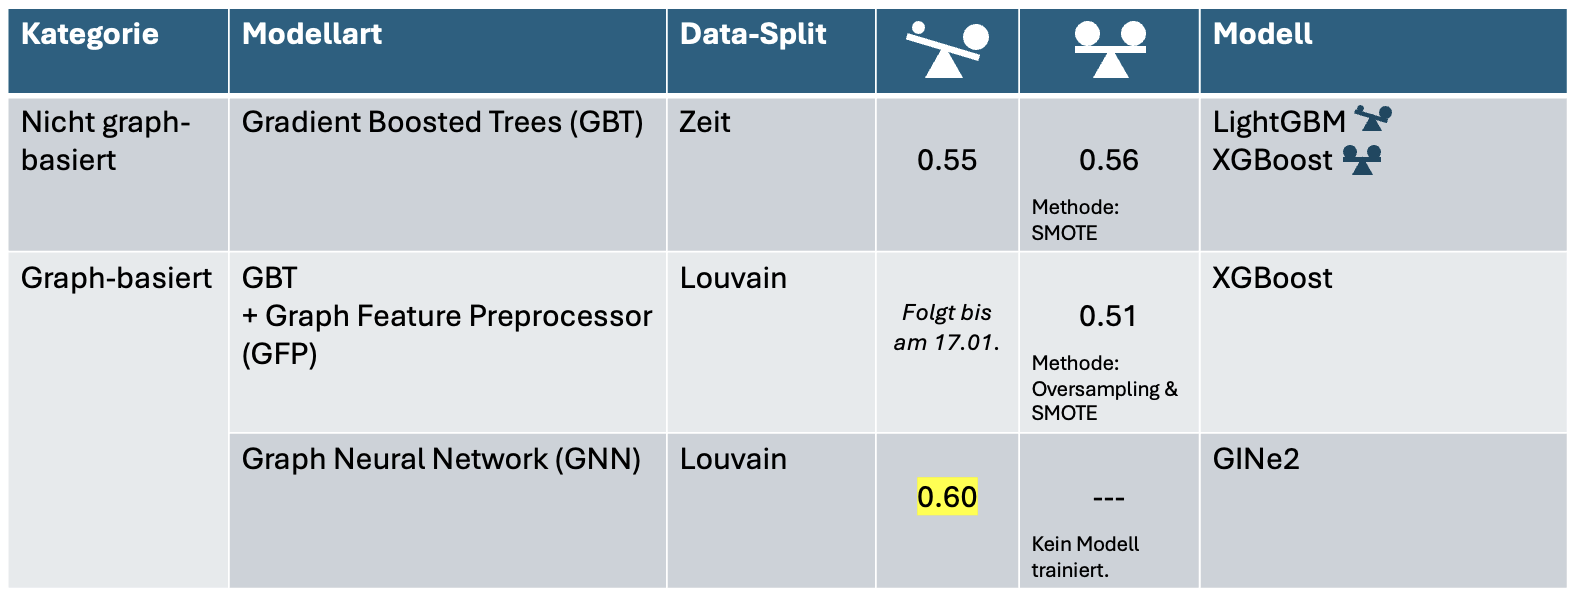
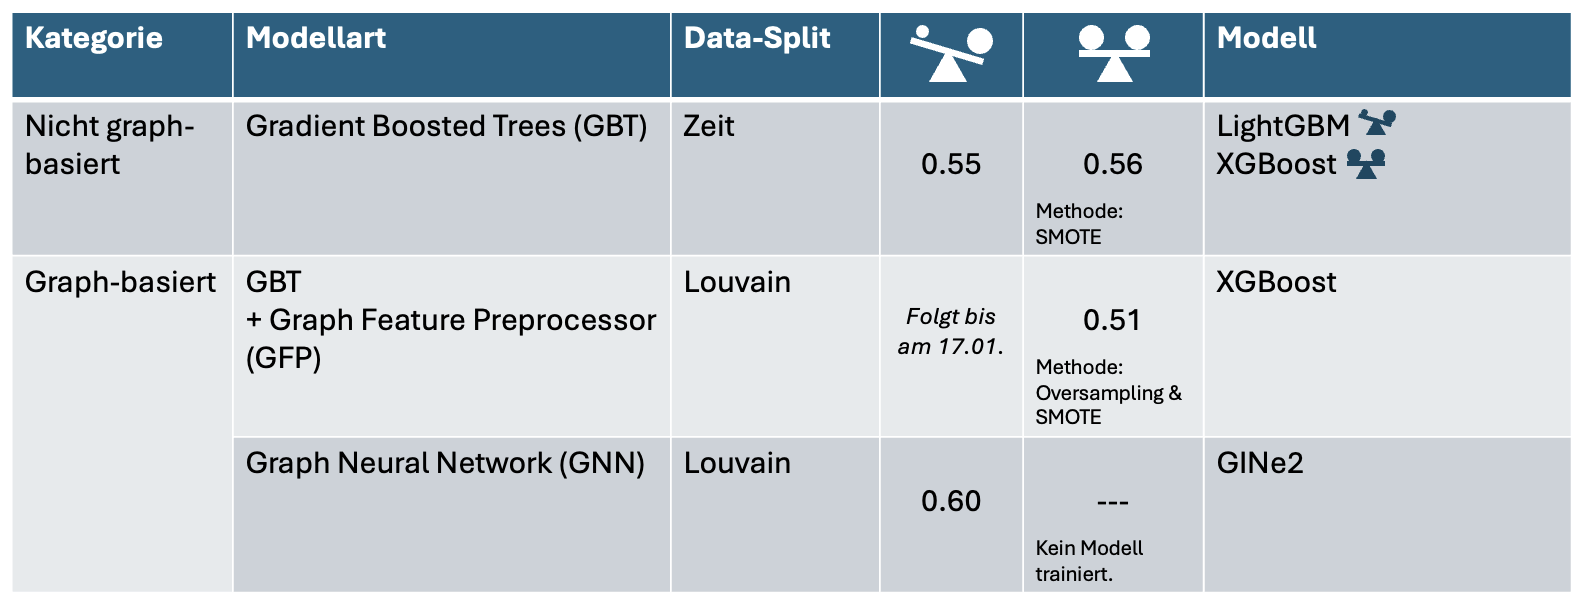
Final GNN results

diff --git a/index.md b/index.md
@@ -7,7 +7,7 @@ layout: default
 
 Dieser Blogbeitrag zeigt, wie man Geldwäscheversuche mit Machine Learning erkennt. Wir präsentieren im Detail verschiedene Ansätze und teilen unsere Erfahrungen. Der Schwerpunkt liegt darauf, die Entwicklung von klassischen Machine-Learning-Algorithmen bis hin zu innovativen Graph Neural Networks zu erklären. Mit der Länge des Artikels wächst die Komplexität. Der Beitrag richtet sich an Leser, die ein Faible für Daten oder Statistik haben und mit dem Begriff "Modell" vertraut sind.
 
-Laut den Vereinten Nationen werden jährlich 2 bis 5 % des globalen BIP – etwa 800 Milliarden bis 2 Billionen US-Dollar – durch Geldwäsche verschleiert. Ein wiederkehrendes Problem in der Geldwäsche-Forschung ist die Verfügbarkeit realer Datensätze. Das AMLworld-Framework bietet hier eine Lösung, indem es synthetische Finanztransaktionen generiert, die reale Szenarien mit hoher Präzision nachbilden, einschliesslich bekannter Geldwäschemuster. Diese vollständig gelabelten Daten ermöglichen eine objektive Bewertung von Algorithmen (Altman et al., 2024). Grundlage des AMLworld-Frameworks ist der synthetische Datensatz [IBM Transactions for Anti Money Laundering (AML)](https://www.kaggle.com/datasets/ealtman2019/ibm-transactions-for-anti-money-laundering-aml), mit dem auch wir in unserem Projekt arbeiteten und den wir im nächsten Kapitel vorstellen. 
+Laut den Vereinten Nationen werden jährlich 2 bis 5% des globalen BIP – etwa 800 Milliarden bis 2 Billionen US-Dollar – durch Geldwäsche verschleiert. Ein wiederkehrendes Problem in der Geldwäsche-Forschung ist die Verfügbarkeit realer Datensätze. Das AMLworld-Framework bietet hier eine Lösung, indem es synthetische Finanztransaktionen generiert, die reale Szenarien mit hoher Präzision nachbilden, einschliesslich bekannter Geldwäschemuster. Diese vollständig gelabelten Daten ermöglichen eine objektive Bewertung von Algorithmen (Altman et al., 2024). Grundlage des AMLworld-Frameworks ist der synthetische Datensatz [IBM Transactions for Anti Money Laundering (AML)](https://www.kaggle.com/datasets/ealtman2019/ibm-transactions-for-anti-money-laundering-aml), mit dem auch wir in unserem Projekt arbeiteten und den wir im nächsten Kapitel vorstellen. 
 
 
 # Die Daten
@@ -15,13 +15,13 @@ Der Datensatz umfasst 5'073'168 Transaktionen und 11 Variablen. Er beschreibt Tr
 Die Transaktionen erstrecken sich über 17 Tage ab dem 1. September 2022. Die meisten Daten stammen aus den ersten 10 Tagen, während die restlichen Tage weniger Aktivität zeigen. Auffällig ist das starke Ungleichgewicht: 99,9% der Transaktionen sind legal, nur 0,1% (5177) gelten als Geldwäsche. 
 <img src="assets/eda_tage.png" alt="eda_tage" class="hover-zoom" style="float: left; margin-right: 20px; width: 200px;">
 
-Der Datensatz umfasst 30'470 Banken und 515'080 Konten. Eine kleine Anzahl von Banken und Konten wickelt den Grossteil der Transaktionen ab: Die 10 aktivsten Banken verantworten 18,1% aller Transaktionen. Bei den Konten gibt es zentrale Akteure, von denen einige über 100.000 Transaktionen ausführen, während viele andere nur ein- oder zweimal aktiv sind. 
+Der Datensatz umfasst 30'470 Banken und 515'080 Konten. Eine kleine Anzahl von Banken und Konten wickelt den Grossteil der Transaktionen ab: Die 10 aktivsten Banken verantworten 18,1% aller Transaktionen. Bei den Konten gibt es zentrale Akteure, von denen einige über 100'000 Transaktionen ausführen, während viele andere nur ein- oder zweimal aktiv sind. 
 <img src="assets/eda_top30banken.png" alt="eda_top30banken" class="hover-zoom" style="float: right; margin-left: 20px; width: 200px;">
 
 Die Transaktionsbeträge, sowohl ein- als auch ausgehend, variieren stark. Meistens handelt es sich um kleine Beträge, doch einige extrem hohe Summen (bis zu 1 Billion USD) verzerren den Durchschnitt. Zur besseren Analyse wurden die Beträge in US-Dollar umgerechnet. 
 <img src="assets/eda_beträge.png" alt="eda_beträge" class="hover-zoom" style="float: right; margin-left: 20px; width: 200px;">
 
-US-Dollar und Euro dominieren die Transaktionen, während Währungen wie Bitcoin oder Saudi Riyal selten vorkommen. Interessant ist, dass 98,6 % der Transaktionen in derselben Währung erfolgen, nur 1,4 % beinhalten Währungsumrechnungen. 
+US-Dollar und Euro dominieren die Transaktionen, während Währungen wie Bitcoin oder Saudi Riyal selten vorkommen. Interessant ist, dass 98.6% der Transaktionen in derselben Währung erfolgen, nur 1.4 % beinhalten Währungsumrechnungen. 
 Der Datensatz unterscheidet sieben Zahlungsmethoden, darunter Schecks, Kreditkarten, ACH (Automated Clearing House), Bargeld und Bitcoin. Schecks dominieren, während Bitcoin, trotz seiner zunehmenden Nutzung in der Geldwäsche, selten vorkommt.  
 <img src="assets/eda_zahlungsformat.png" alt="eda_zahlungsformat" class="hover-zoom" style="float: left; margin-right: 20px; width: 200px;">
 
@@ -69,7 +69,7 @@ Diese Struktur verschleiert die Geldspur durch Streuung und spätere Zusammenfü
 
 # Herausforderung und Evaluierung von Modellen 
 Zunächst müssen wir verstehen, welche Herausforderungen Machine-Learning-Modelle bewältigen und wie wir ihre Leistung messen. In der Welt des maschinellen Lernens begegnen wir oft Datensätzen mit unausgewogener Klassenverteilung. Das bedeutet, eine Klasse – etwa betrügerische Transaktionen – tritt deutlich seltener auf als die andere, wie legitime Transaktionen. Diese seltene Klasse heisst Minority-Class (Minderheitsklasse).
-Die Herausforderung bei der Arbeit mit solchen Daten besteht darin, dass herkömmliche Metriken wie die Genauigkeit (Accuracy) oft in die Irre führen. Ein Modell könnte etwa 99 % Genauigkeit erzielen, indem es stets die Mehrheitsklasse (legitime Transaktionen) vorhersagt, dabei jedoch keine betrügerischen Transaktionen erkennt. Hier greift der Minority-Class F1-Score ein. Der F1-Score balanciert Präzision und Recall aus. Diese beiden Masse sind entscheidend, um die Leistung eines Modells bei der Erkennung der Minderheitsklasse zu bewerten.
+Die Herausforderung bei der Arbeit mit solchen Daten besteht darin, dass herkömmliche Metriken wie die Genauigkeit (Accuracy) oft in die Irre führen. Ein Modell könnte etwa 99% Genauigkeit erzielen, indem es stets die Mehrheitsklasse (legitime Transaktionen) vorhersagt, dabei jedoch keine betrügerischen Transaktionen erkennt. Hier greift der Minority-Class F1-Score ein. Der F1-Score balanciert Präzision und Recall aus. Diese beiden Masse sind entscheidend, um die Leistung eines Modells bei der Erkennung der Minderheitsklasse zu bewerten.
 
 **Präzision** gibt an, wie viele der als betrügerisch eingestuften Transaktionen tatsächlich betrügerisch sind. 
 
@@ -95,7 +95,7 @@ Ein hoher F1-Score für die Minderheitsklasse zeigt, dass das Modell sowohl prä
 
 <img src="assets/confusion_matrix1.png" alt="confusion_matrix1" class="hover-zoom" style="float: right; margin-left: 20px; width: 200px;">
 
-> Ein Beispiel: Stellen wir uns einen Datensatz mit 50 Transaktionen vor, von denen 2 % betrügerisch sind. Eine
+> Ein Beispiel: Stellen wir uns einen Datensatz mit 50 Transaktionen vor, von denen 2% betrügerisch sind. Eine
 > Transaktion ist betrügerisch (True Positive, wenn korrekt erkannt). Das Modell markiert jedoch fälschlicherweise zwei 
 > weitere Transaktionen als betrügerisch (False Positives) und übersieht die betrügerische Transaktion (False Negative).
 
@@ -142,7 +142,7 @@ Das folgende Kapitel beschreibt Methoden, die unsere Arbeit inspirierten.
 # Vorstellung Modellansätze aus Papers 
 Liu et al. (2020) konzentrierten sich auf die Verbesserung von Graph Neural Networks (GNNs), die vielversprechend für die Analyse relationaler Daten sind. Sie entwickelten das Framework **GraphConsis**, um Inkonsistenzen in Graphdaten zu beheben. Solche Inkonsistenzen entstehen, wenn Betrüger ihre Verbindungen tarnen, indem sie scheinbar normale Netzwerke aufbauen. GraphConsis filtert diese Störungen und identifiziert konsistente Nachbarschaftsstrukturen, was die Erkennungsleistung in realen Datensätzen signifikant verbessert.  
  
-Ein weiterer Ansatz ist der **Graph Feature Preprocessor (GFP)**, der speziell für die Echtzeit-Erkennung von Geldwäschemustern wie Simple Cycles oder Scatter-Gather entwickelt wurde. Dieses Tool extrahiert Merkmale aus Finanztransaktionsgrafen und erweitert traditionelle Machine-Learning-Modelle wie Gradient Boosted Trees. Die Kombination dieser Modelle mit Graph-Features steigerte die F1-Score für die Erkennung von Minderheitsklassen um bis zu 36 %, was die Bedeutung von Graph-basierten Features für die Betrugserkennung unterstreicht (Blanuša et al., 2024).  
+Ein weiterer Ansatz ist der **Graph Feature Preprocessor (GFP)**, der speziell für die Echtzeit-Erkennung von Geldwäschemustern wie Simple Cycles oder Scatter-Gather entwickelt wurde. Dieses Tool extrahiert Merkmale aus Finanztransaktionsgrafen und erweitert traditionelle Machine-Learning-Modelle wie Gradient Boosted Trees. Die Kombination dieser Modelle mit Graph-Features steigerte die F1-Score für die Erkennung von Minderheitsklassen um bis zu 36%, was die Bedeutung von Graph-basierten Features für die Betrugserkennung unterstreicht (Blanuša et al., 2024).  
 
 Egressy et al. leisteten einen innovativen Beitrag, indem sie gerichtete Multigraphen in den Fokus rückten. Sie passten GNNs für diese komplexen Strukturen an und erkannten durch Techniken wie **Reverse Message Passing** und **Port-Nummerierung** effizient Muster wie Zyklen und Scatter-Gather. Dieser Ansatz verbesserte die Erkennungsrate von Geldwäsche-Transaktionen um bis zu 30%. Parallel dazu setzte die Forschung zu Ensemble-Modellen neue Massstäbe.
 
@@ -161,7 +161,7 @@ Nicht graph-basierte Modelle analysieren Transaktionen isoliert. Sie ignorieren 
 Für den nicht graph-basierten Ansatz nutzen wir Gradient Boosted Trees (GBT). Diese Methode kombiniert viele einfache Entscheidungsbäume, um Vorhersagen zu verbessern. Entscheidungsbäume teilen Daten durch Ja/Nein-Fragen in Kategorien. 
 
 > Ein Beispiel: Wir wollen prüfen, ob eine Transaktion betrügerisch ist. Die Daten: 
-> - Betrag: 15.000 USD 
+> - Betrag: 15'000 USD 
 > - Währung: Bitcoin 
 > - Zahlungsformat: Kreditkarte 
 > - Sender: Konto mit auffälligem Transaktionsmuster 
@@ -190,10 +190,10 @@ Wir implementieren zwei Varianten von Gradient Boost Modellen:
 
 #### XGBoost
 
-XGBoost erweitert das Gradient Boosting durch mehrere Optimierungen. Diese Open-Source-Bibliothek besticht durch hohe Geschwindigkeit und Flexibilität. Der Algorithmus kombiniert Entscheidungsbäume, wobei jeder Baum die Fehler des vorherigen korrigiert. XGBoost zeichnet sich besonders dadurch aus, dass es gezielt unausgewogene Datensätze wie unseren Geldwäsche-Datensatz bearbeitet. Es nutzt gewichtetes Training, um die Erkennung seltener Klassen, etwa betrügerischer Transaktionen, zu verbessern. Bei einem Anteil von 0,1 % Geldwäsche-Transaktionen könnte ein Modell ohne Anpassungen alle Transaktionen als "legitim" einstufen und dennoch hohe Genauigkeit erreichen. Um dies zu verhindern, ermöglicht XGBoost, der Verlustfunktion einen Gewichtungsfaktor hinzuzufügen. Dieser Faktor verleiht den seltenen Klassen mehr Gewicht, sodass das Modell sie präziser klassifiziert. 
+XGBoost erweitert das Gradient Boosting durch mehrere Optimierungen. Diese Open-Source-Bibliothek besticht durch hohe Geschwindigkeit und Flexibilität. Der Algorithmus kombiniert Entscheidungsbäume, wobei jeder Baum die Fehler des vorherigen korrigiert. XGBoost zeichnet sich besonders dadurch aus, dass es gezielt unausgewogene Datensätze wie unseren Geldwäsche-Datensatz bearbeitet. Es nutzt gewichtetes Training, um die Erkennung seltener Klassen, etwa betrügerischer Transaktionen, zu verbessern. Bei einem Anteil von 0.1% Geldwäsche-Transaktionen könnte ein Modell ohne Anpassungen alle Transaktionen als "legitim" einstufen und dennoch hohe Genauigkeit erreichen. Um dies zu verhindern, ermöglicht XGBoost, der Verlustfunktion einen Gewichtungsfaktor hinzuzufügen. Dieser Faktor verleiht den seltenen Klassen mehr Gewicht, sodass das Modell sie präziser klassifiziert. 
 
-> Wieder unser Beispiel: Betrachten wir die 50 Transaktionen, von denen 2 %, also eine, betrügerisch ist. Ohne 
-> Klassengewichtung könnte das Modell alle Transaktionen als "legitim" einstufen und dennoch 98 % Genauigkeit erreichen. Das
+> Wieder unser Beispiel: Betrachten wir die 50 Transaktionen, von denen 2%, also eine, betrügerisch ist. Ohne 
+> Klassengewichtung könnte das Modell alle Transaktionen als "legitim" einstufen und dennoch 98% Genauigkeit erreichen. Das
 > wäre nutzlos, da keine betrügerische Transaktion erkannt würde. Um dies zu verhindern, geben wir der Klasse "betrügerisch"
 > eine höhere Gewichtung, etwa den Faktor 49, basierend auf dem Verhältnis von legitimen zu betrügerischen Transaktionen. So
 > wird der Fehler, eine betrügerische Transaktion zu übersehen, 49-mal stärker bestraft als der Fehler, eine legitime 
@@ -202,9 +202,9 @@ XGBoost erweitert das Gradient Boosting durch mehrere Optimierungen. Diese Open-
 <img src="assets/logloss.png" alt="logloss" class="hover-zoom" style="float: right; margin-left: 20px; width: 200px;">
 XGBoost nutzt zudem spezielle Optimierungen für Klassifikationsprobleme, wie Log-Loss. Diese Funktion misst, wie gut die vorhergesagte Wahrscheinlichkeit mit der tatsächlichen Klasse übereinstimmt. Bei einer betrügerischen Transaktion soll das Modell eine Wahrscheinlichkeit nahe 1 liefern, bei legitimen nahe 0. Weicht die Vorhersage stark von der tatsächlichen Klasse ab, bestraft die Funktion das Modell stärker. So trifft das Modell nicht nur Entscheidungen, sondern liefert auch zuverlässige Wahrscheinlichkeiten. 
 
-- Das Modell schätzte die erste Transaktion (betrügerisch) mit einer hohen Wahrscheinlichkeit von 0,80 ein. Diese liegt nahe an der tatsächlichen Klasse, daher bleibt der Log-Loss-Beitrag gering (0,223).  
-- Bei der zweiten Transaktion (legitim) sagte das Modell korrekt eine niedrige Wahrscheinlichkeit von 0,20 voraus, was ebenfalls zu einem kleinen Log-Loss-Beitrag führt.  
-- Bei der dritten Transaktion (legitim) prognostizierte das Modell jedoch fälschlicherweise eine hohe Wahrscheinlichkeit von 0,90 für "betrügerisch". Dieser Fehler wird stark bestraft (2,302).  
+- Das Modell schätzte die erste Transaktion (betrügerisch) mit einer hohen Wahrscheinlichkeit von 0.80 ein. Diese liegt nahe an der tatsächlichen Klasse, daher bleibt der Log-Loss-Beitrag gering (0.223).  
+- Bei der zweiten Transaktion (legitim) sagte das Modell korrekt eine niedrige Wahrscheinlichkeit von 0.20 voraus, was ebenfalls zu einem kleinen Log-Loss-Beitrag führt.  
+- Bei der dritten Transaktion (legitim) prognostizierte das Modell jedoch fälschlicherweise eine hohe Wahrscheinlichkeit von 0.90 für "betrügerisch". Dieser Fehler wird stark bestraft (2302).  
 Der Gesamt-Log-Loss ergibt sich aus dem Durchschnitt der einzelnen Beiträge. 
 
 #### LightGBM
@@ -225,7 +225,7 @@ Beim **Undersampling** reduzieren wir die Grösse der Mehrheitsklasse, indem wir
 
 Beim **Oversampling** wird die Minderheitsklasse künstlich vergrössert, indem bestehende Datenpunkte dupliziert werden. Dadurch bleibt die Grösse der Mehrheitsklasse erhalten, während die Minderheitsklasse vergrössert wird. In unserem Beispiel würde die eine Transaktion dupliziert, bis es 49 betrügerische Transaktionen gäbe. Da dieselben Datenpunkte dadurch mehrmals verwendet werden, besteht die Gefahrt von Overfitting. 
 
-**SMOTE** ist eine fortschrittliche Oversampling-Methode, die synthetische Datenpunkte für die Minderheitsklasse erzeugt, statt bestehende zu kopieren. Sie berechnet Zwischenwerte zwischen vorhandenen Datenpunkten der Minderheitsklasse, um neue zu schaffen. Bei zwei betrügerischen Transaktionen von 10.000 USD und 20.000 USD erzeugt SMOTE eine neue Transaktion mit einem Betrag zwischen diesen Werten, etwa 17.000 USD. 
+**SMOTE** ist eine fortschrittliche Oversampling-Methode, die synthetische Datenpunkte für die Minderheitsklasse erzeugt, statt bestehende zu kopieren. Sie berechnet Zwischenwerte zwischen vorhandenen Datenpunkten der Minderheitsklasse, um neue zu schaffen. Bei zwei betrügerischen Transaktionen von 10'000 USD und 20'000 USD erzeugt SMOTE eine neue Transaktion mit einem Betrag zwischen diesen Werten, etwa 17'000 USD. 
 
 **ADASYN** erweitert SMOTE, indem es sich auf schwer klassifizierbare Datenpunkte konzentriert. Während SMOTE Datenpunkte gleichmässig erzeugt, generiert ADASYN mehr synthetische Punkte dort, wo die Minderheitsklasse schwächer vertreten ist. ADASYN bewertet die Schwierigkeit, jeden Punkt der Minderheitsklasse korrekt zu klassifizieren. Bei zwei betrügerischen Transaktionen – eine mit seltenem und eine mit üblichem Währungsformat – erstellt ADASYN mehr synthetische Transaktionen für die seltene Währung, da diese schwerer zu klassifizieren ist. 
 
@@ -345,7 +345,7 @@ Das Modell GINe2 erweitert seinen Vorgänger GINe um mehrere konfigurierbare Opt
 Ohne Dropout stuft das Modell etwa vor allem Transaktionen mit ungewöhnlich hohen Beträgen als verdächtig ein, da diese im Training oft als Betrug markiert wurden. Mit Dropout berücksichtigt es zusätzlich andere Merkmale wie die Anzahl der Transaktionen, die Währung oder die Verbindungsfrequenz zwischen bestimmten Konten. So erkennt es sowohl offensichtliche als auch versteckte Muster, etwa ein auffälliges Netzwerk kleiner, häufiger Zahlungen. Ist Dropout aktiviert, greift es sowohl bei der Verarbeitung der Kantenattribute als auch in den abschliessenden Schichten des Modells.
 
 ##### GINe3
-Das GINe3-Modell erweitert frühere Versionen durch zusätzliche **Pre- und Post-Processing-Schichten**, die die Knoteneigenschaften vor und nach der GNN-Verarbeitung gezielt verfeinern. 
+Das GINe3-Modell erweitert frühere Versionen durch zusätzliche **Pre- und Post-Processing-Schichten**, welche die Knoteneigenschaften vor und nach der GNN-Verarbeitung gezielt verfeinern. 
 
 Die Pre-Processing-Schicht bereitet die Rohdaten der Knoten in mehreren Schritten auf: Lineare Transformationen, Aktivierungsfunktionen wie ReLU (Rectified Linear Unit), Batch-Normalisierung und optional Dropout bringen die Eingangsdaten in eine Form, die optimal für die GNN-Verarbeitung geeignet ist. So werden beispielsweise Transaktionsbeträge skaliert oder normalisiert, um extreme Ausreisser wie ungewöhnlich hohe Summen zu dämpfen und die Werte in einen einheitlichen Bereich zu überführen. Nach der GNN-Verarbeitung entstehen aggregierte Merkmale, die Informationen aus Knoten und Kanten kombinieren. 
 
@@ -358,7 +358,7 @@ Im Post-Processing durchlaufen diese Merkmale weitere Schichten, um spezifische 
 
 <img src="assets/resultate_alle.png" alt="gnn" class="resultate_alle" class="hover-zoom" style="float: left; margin-right: 20px; width: 200px;">
 
-Die Grafik fasst die Ergebnisse der besten Modelle übersichtlich zusammen. Alle Modelle, ausser den GNN-Modellen, werden sowohl mit unbalancierten als auch mit balancierten Daten trainiert. Das GNN-Modell schneidet am besten ab und erreicht einen F1-Score von 0.60 HIER FEHLT TEXT. Bemerkenswert ist, dass das nicht graphbasierte Modell XGBoost, trainiert mit nach der SMOTE-Methode gesampelten Daten, mit einem F1-Score von 0.56 fast gleichauf liegt. Die Ergebnisse sind solide, lassen aber viel Spielraum für Verbesserungen. Unsere Arbeit bietet einen ersten Einstieg in dieses Thema. Die Umsetzung bleibt ausbaufähig; konkrete Verbesserungsvorschläge finden sich im Kapitel „Outlook“.
+Die Grafik fasst die Ergebnisse der besten Modelle übersichtlich zusammen. Alle Modelle, ausser den GNN-Modellen, werden sowohl mit unbalancierten als auch mit balancierten Daten trainiert. Das GNN-Modell schneidet am besten ab und erreicht einen F1-Score von 0.60. Bemerkenswert ist, dass das nicht graphbasierte Modell XGBoost, trainiert mit nach der SMOTE-Methode gesampelten Daten, mit einem F1-Score von 0.56 fast gleichauf liegt. Die Ergebnisse sind solide, lassen aber viel Spielraum für Verbesserungen. Unsere Arbeit bietet einen ersten Einstieg in dieses Thema. Die Umsetzung bleibt ausbaufähig; konkrete Verbesserungsvorschläge finden sich im Kapitel „Outlook“.
 
 
 
@@ -399,7 +399,7 @@ Die Confusion-Matrizen des Modells XGBoost weichen stark von denen von LightGBM 
 
 <img src="assets/resultate_GNN.png" alt="resultate_GNN" class="hover-zoom" style="float: right; margin-left: 20px; width: 150px;">
 
-Die GNN Modelle steigern sich mit zunehmender Modell-Komplexität. Alle Modelle werden auf den unbalancierten Daten trainiert. Das Baseline-Modell erzielt dabei einen F1-Score von 0.58 und das beste Modell von HIER FEHLT TEXT.
+Die GNN Modelle steigern sich mit zunehmender Modell-Komplexität. Alle Modelle werden auf den unbalancierten Daten trainiert. Das Baseline-Modell erzielt dabei einen F1-Score von 0.58 und das beste Modell GINe2 von 0.6. Das verfeinerte Modell GINe3 mag sich nicht mehr weiter verbessern. 
 
 
 
